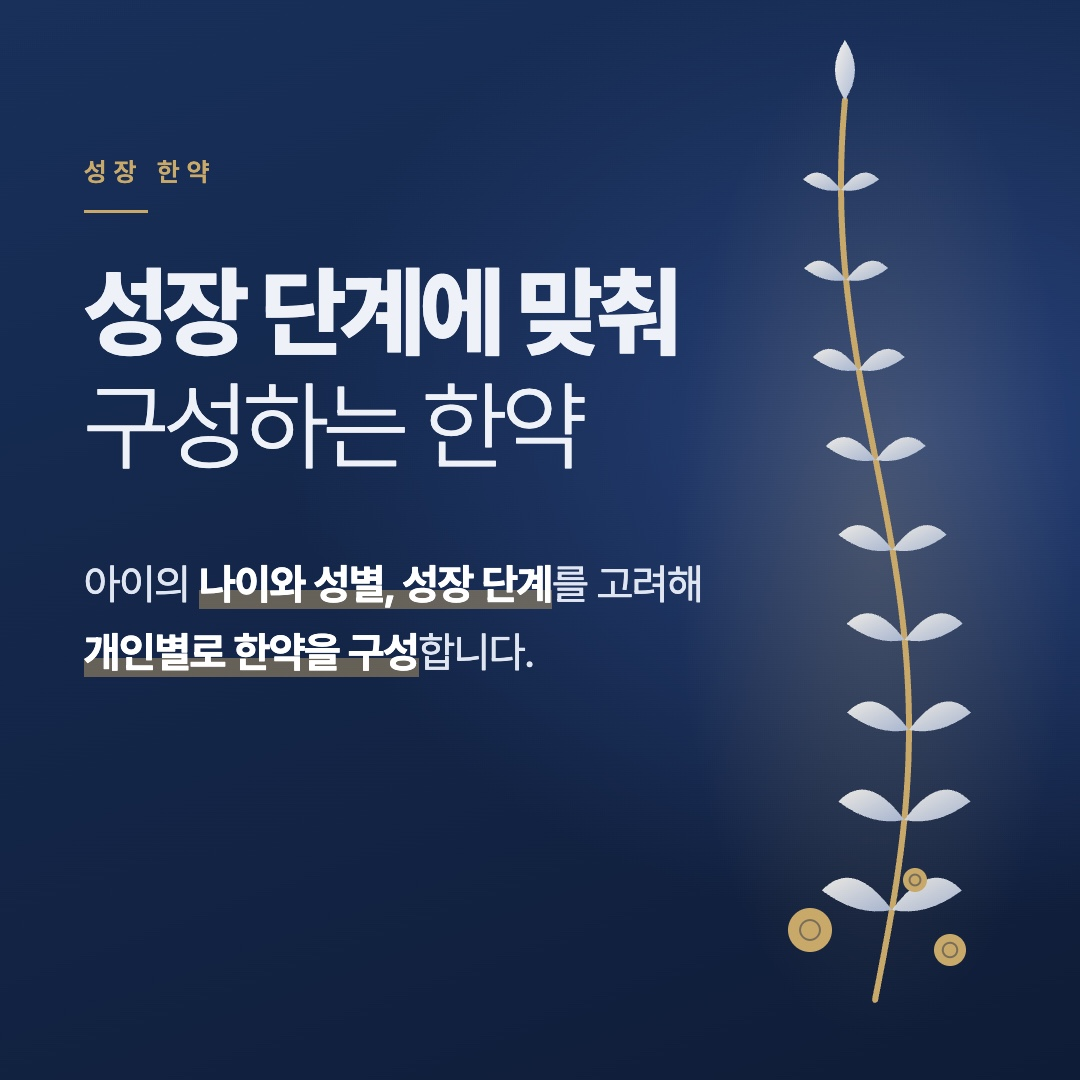
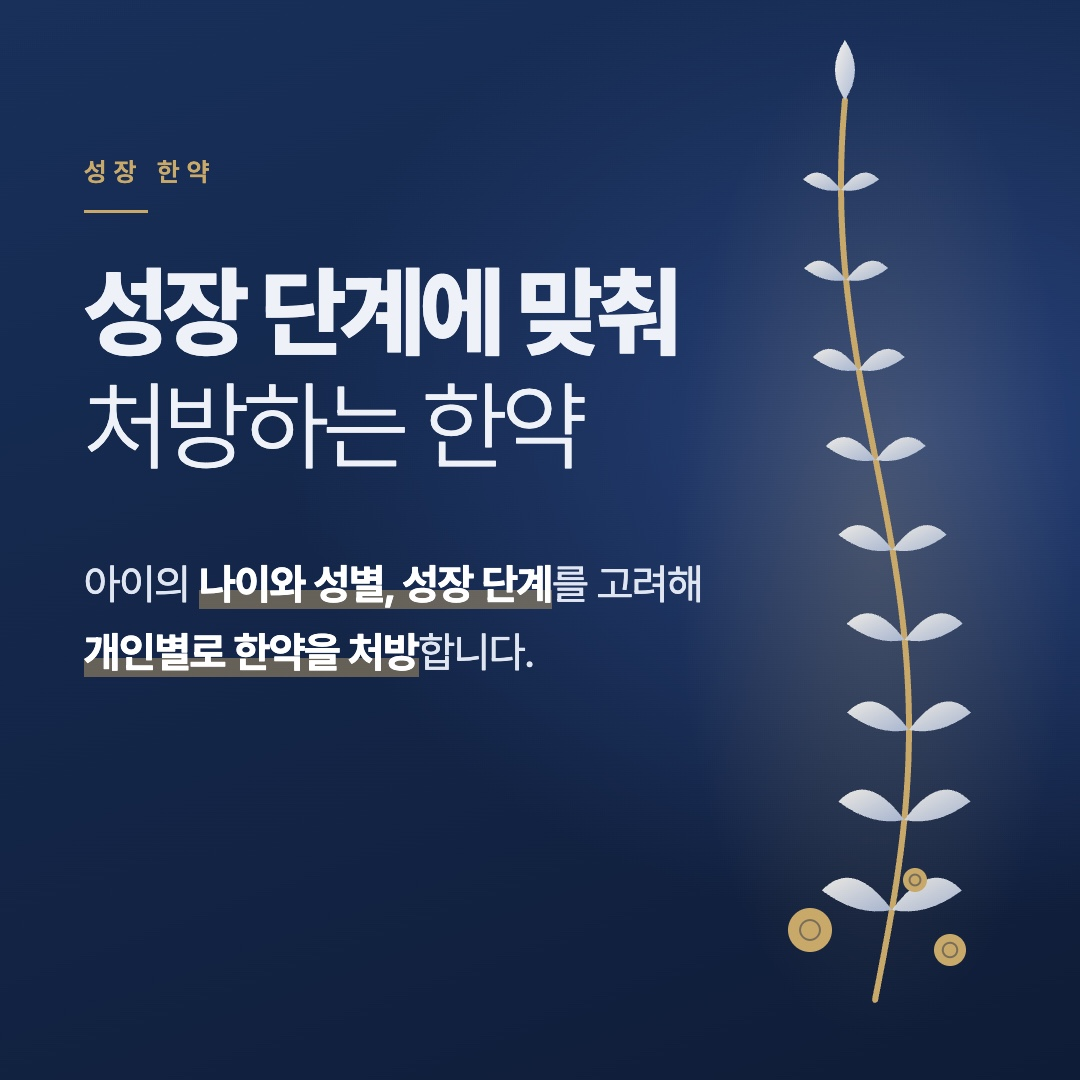
성장 한약 카드: 구성 → 처방 표현으로 수정

Changed region(s): [[0.0611, 0.3361, 0.2444, 0.4278], [0.3056, 0.5806, 0.3972, 0.6417]]

diff --git a/growth.html b/growth.html
@@ -80,7 +80,7 @@
 </div></section>
 <section class="sec sec-sand"><div class="container">
   <div class="sec-head"><span class="tag">TREATMENT</span><h2>나이별 · 성별 성장 치료</h2><p>아이의 나이와 성별, 성장 단계에 따라 아래 치료를 조합합니다.</p></div>
-  <div class='feat'><a href='assets/img/growth-herb.jpg' target='_blank' rel='noopener'><img src='assets/img/growth-herb.jpg' width='1080' height='1080' loading='lazy' alt='성장 한약. 성장 단계에 맞춰 구성하는 한약. 아이의 나이와 성별, 성장 단계를 고려해 개인별로 한약을 구성합니다.'></a><a href='assets/img/growth-chuna.jpg' target='_blank' rel='noopener'><img src='assets/img/growth-chuna.jpg' width='1080' height='1080' loading='lazy' alt='성장 추나요법. 척추 분절 사이를 늘려주는 추나. 구부정한 자세로 눌려 있던 척추와 관절의 정렬을 바로잡아 숨은 키를 찾아주고, 성장 환경을 개선하는 한방 수기 치료입니다.'></a></div>
+  <div class='feat'><a href='assets/img/growth-herb.jpg' target='_blank' rel='noopener'><img src='assets/img/growth-herb.jpg' width='1080' height='1080' loading='lazy' alt='성장 한약. 성장 단계에 맞춰 처방하는 한약. 아이의 나이와 성별, 성장 단계를 고려해 개인별로 한약을 처방합니다.'></a><a href='assets/img/growth-chuna.jpg' target='_blank' rel='noopener'><img src='assets/img/growth-chuna.jpg' width='1080' height='1080' loading='lazy' alt='성장 추나요법. 척추 분절 사이를 늘려주는 추나. 구부정한 자세로 눌려 있던 척추와 관절의 정렬을 바로잡아 숨은 키를 찾아주고, 성장 환경을 개선하는 한방 수기 치료입니다.'></a></div>
   <div class="fgrid fsub"><div class='fcard reveal'><h3>성조숙증 지연</h3><p>2차 성징이 일찍 나타나는 경우, 검사 결과를 바탕으로 진행 속도를 살피며 지연 방향의 치료를 상담합니다.</p></div><div class='fcard reveal'><h3>성장침</h3><p>아이가 받아들일 수 있는 방식으로 성장과 관련된 혈위를 자극하는 침 치료입니다.</p></div></div>
   <div class="age-grid">
     <div class="panel"><h3>여아 · 만 8세 미만</h3><p>만 8세가 되기 전(8번째 생일 이전)에 <b>유방이 발달하기 시작</b>하면 성조숙증을 의심합니다. 이후 성장 속도, 뼈 나이, 초경 시기를 함께 살펴 상담합니다.</p></div>

diff --git a/build.py b/build.py
@@ -1103,7 +1103,7 @@ def build_growth():
     four = [x for x in four if x[0] in ("성조숙증 지연", "성장침")]
     fc = "".join(f"<div class='fcard reveal'><h3>{esc(t)}</h3><p>{esc(d)}</p></div>" for t, d in four)
     feat = ("<div class='feat'>"
-            "<a href='assets/img/growth-herb.jpg' target='_blank' rel='noopener'><img src='assets/img/growth-herb.jpg' width='1080' height='1080' loading='lazy' alt='성장 한약. 성장 단계에 맞춰 구성하는 한약. 아이의 나이와 성별, 성장 단계를 고려해 개인별로 한약을 구성합니다.'></a>"
+            "<a href='assets/img/growth-herb.jpg' target='_blank' rel='noopener'><img src='assets/img/growth-herb.jpg' width='1080' height='1080' loading='lazy' alt='성장 한약. 성장 단계에 맞춰 처방하는 한약. 아이의 나이와 성별, 성장 단계를 고려해 개인별로 한약을 처방합니다.'></a>"
             "<a href='assets/img/growth-chuna.jpg' target='_blank' rel='noopener'><img src='assets/img/growth-chuna.jpg' width='1080' height='1080' loading='lazy' alt='성장 추나요법. 척추 분절 사이를 늘려주는 추나. 구부정한 자세로 눌려 있던 척추와 관절의 정렬을 바로잡아 숨은 키를 찾아주고, 성장 환경을 개선하는 한방 수기 치료입니다.'></a>"
             "</div>")
     body = hero_sub("바른성장", "초음파 성장 검사와<br>맞춤 성장 상담",
